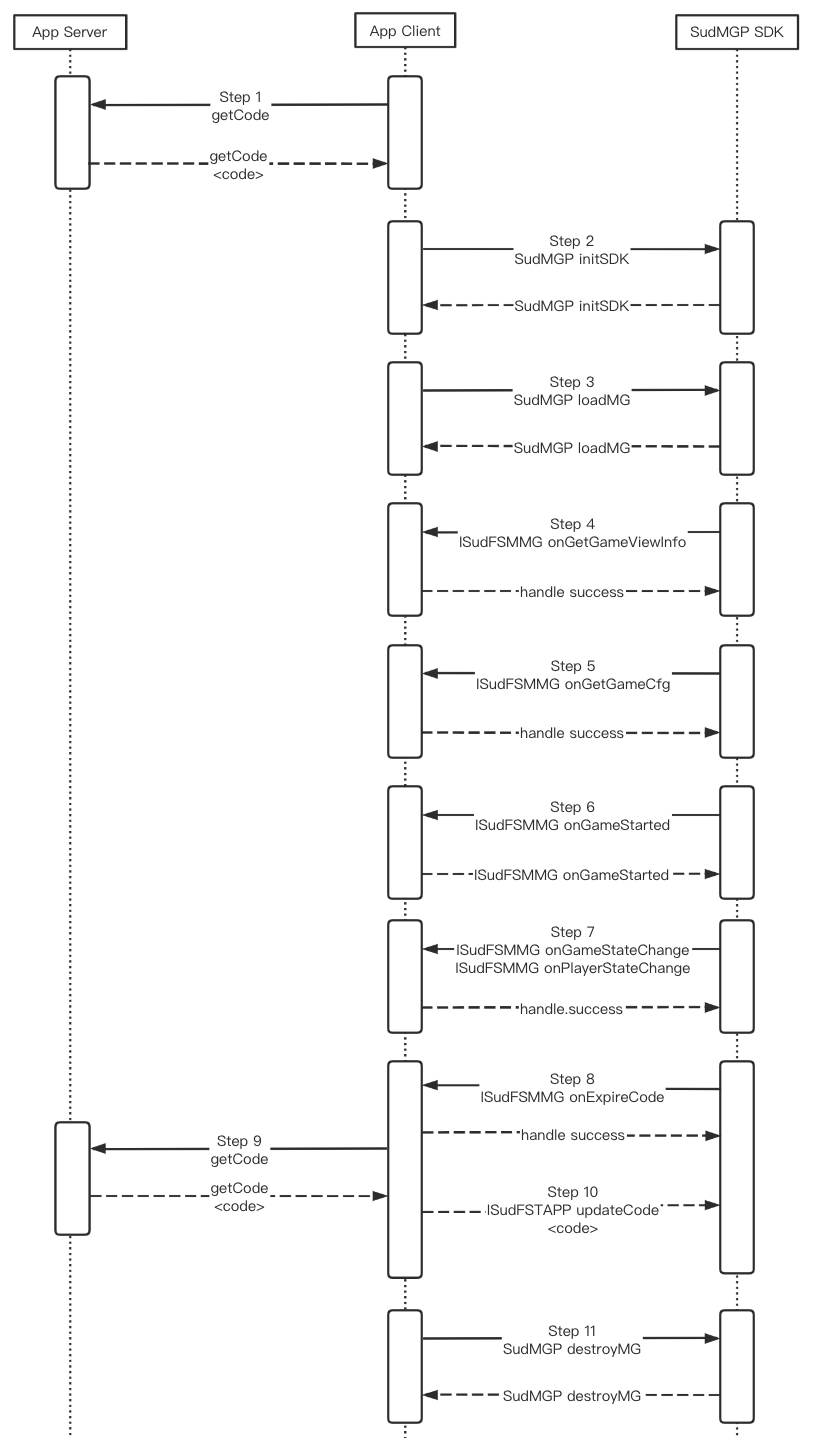
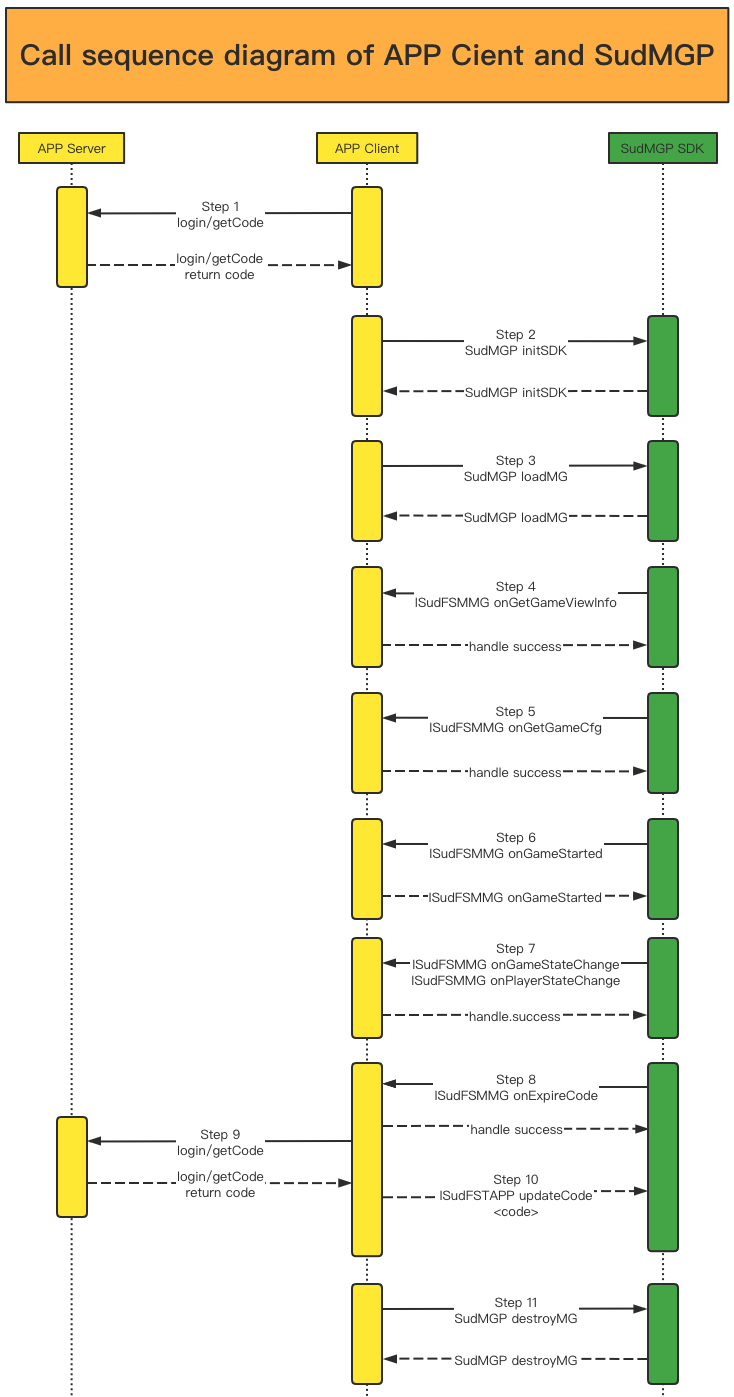
feat (quickstart): 1.QuickStart

diff --git a/en-US/app/Client/StartUp-Android.md b/en-US/app/Client/StartUp-Android.md
@@ -4,11 +4,11 @@
 
 ## Quick start for Android
 
-1. Contact Sud.Tech to obtain `appId`, `appKey`, `appSecret` for your service.
+### 1. Contact Sud.Tech to obtain `appId`, `appKey`, `appSecret` for your service.
 
-2. Download [Android SDK SudMGP.aar](https://github.com/SudTechnology/sud-mgp-android/releases) and the demo project [HelloSud-Android.zip](https://github.com/SudTechnology/hello-sud-android/releases).
+### 2. Download [Android SDK SudMGP.aar](https://github.com/SudTechnology/sud-mgp-android/releases) and the new Demo [QuickStart](https://github.com/SudTechnology/hello-sud-plus-android/tree/master/project/QuickStart), the demo project [HelloSud-Android.zip](https://github.com/SudTechnology/hello-sud-android/releases).
 
-3. Import the SDK into the project.
+### 3. Import the SDK into the project.
 
     In the following example, Android Studio 4.2, Gradle 6.7.1, and the SudMgpExample-Android project are used, and the programming language is Java:
 
@@ -36,20 +36,20 @@
             ......
         }
         ```
-    
-4. Initialize the [SudMGP](./API/SudMGP.md). For details, see "HelloSud-Android".
 
-5. Integrate lifecycle callbacks of the [SudMGP](./API/SudMGP.md) and add the game view to the native layout. For details, see "HelloSud-Android".
+### 4. Initialize the [SudMGP](./API/SudMGP.md). For details, see [QuickStart](https://github.com/SudTechnology/hello-sud-plus-android/tree/master/project/QuickStart).
 
-6. Load the game using the [SudMGP](API/SudMGP.md). For details, see "HelloSud-Android".
+### 5. Integrate lifecycle callbacks of the [SudMGP](./API/SudMGP.md) and add the game view to the native layout. For details, see [QuickStart](https://github.com/SudTechnology/hello-sud-plus-android/tree/master/project/QuickStart).
 
-7. Optional: Implement [`ISudFSMMG`](API/ISudFSMMG.md). For details, see "HelloSud-Android".
+### 6. Load the game using the [SudMGP](API/SudMGP.md). For details, see [QuickStart](https://github.com/SudTechnology/hello-sud-plus-android/tree/master/project/QuickStart).
 
-8. Optional: Implement [`ISudFSTAPP`](API/ISudFSTAPP.md). For details, see "HelloSud-Android".
+### 7. Optional: Implement [`ISudFSMMG`](API/ISudFSMMG.md). For details, see [QuickStart](https://github.com/SudTechnology/hello-sud-plus-android/tree/master/project/QuickStart).
 
-9. Deinitialize the [SudMGP](API/SudMGP.md). For details, see "HelloSud-Android".
+### 8. Optional: Implement [`ISudFSTAPP`](API/ISudFSTAPP.md). For details, see [QuickStart](https://github.com/SudTechnology/hello-sud-plus-android/tree/master/project/QuickStart).
 
-10. API call sequence diagram.
+### 9. Destroy Game with the [SudMGP](API/SudMGP.md). For details, see [QuickStart](https://github.com/SudTechnology/hello-sud-plus-android/tree/master/project/QuickStart).
+
+### 10. Call sequence diagram of APP Cient and SudMGP
 
    ![api](../Resource/Client/sdk_api_sd.png)
 

diff --git a/zh-CN/app/Client/StartUp-Android.md b/zh-CN/app/Client/StartUp-Android.md
@@ -4,13 +4,13 @@
 
 ## Android 快速开始
 
-1. 需要联系Sud.Tech为业务分配 `appId`、 `appKey`、 `appSecret`
+### 1. 需要联系Sud.Tech为业务分配 `appId`、 `appKey`、 `appSecret`
 
-2. 下载 [Android SDK SudMGP.aar](https://github.com/SudTechnology/sud-mgp-android/releases) 和 Demo工程 [HelloSud-Android.zip](https://github.com/SudTechnology/hello-sud-android/releases)
+### 2. 下载 [Android SDK SudMGP.aar](https://github.com/SudTechnology/sud-mgp-android/releases) 和 全新Demo工程 [QuickStart](https://github.com/SudTechnology/hello-sud-plus-android/tree/master/project/QuickStart), 接入Demo [HelloSud-Android.zip](https://github.com/SudTechnology/hello-sud-android/releases)
 
-3. 在工程中引入SDK：
+### 3. 在工程中引入SDK：
 
-    以Android Studio 4.2，Gradle 6.7.1，编程语言Java，工程SudMgpExample-Android为例：
+    以Android Studio 4.2，Gradle 6.7.1，编程语言Java，工程HelloSud-Android为例：
 
     - 将 `SudMGP.aar` 拷贝到SudMgpExample-Android/app/libs目录
 
@@ -36,19 +36,19 @@
             ......
         }
         ```
-    
-4. 初始化 [SudMGP](./API/SudMGP.md) ，具体可参考HelloSud-Android
 
-5. 对接 [SudMGP](./API/SudMGP.md) 相关生命周期回调，讲游戏View加入到原生布局中，具体可参考HelloSud-Android
+### 4. 初始化 [SudMGP](./API/SudMGP.md) ，具体可参考[QuickStart](https://github.com/SudTechnology/hello-sud-plus-android/tree/master/project/QuickStart)
 
-6. 通过 [SudMGP](API/SudMGP.md) 加载小游戏，具体可参考HelloSud-Android
+### 5. 对接 [SudMGP](./API/SudMGP.md) 相关生命周期回调，讲游戏View加入到原生布局中，具体可参考[QuickStart](https://github.com/SudTechnology/hello-sud-plus-android/tree/master/project/QuickStart)
 
-7. 可选：实现 [ISudFSMMG](API/ISudFSMMG.md) ，具体可参考HelloSud-Android
+### 6. 通过 [SudMGP](API/SudMGP.md) 加载小游戏，具体可参考[QuickStart](https://github.com/SudTechnology/hello-sud-plus-android/tree/master/project/QuickStart)
 
-8. 可选：实现 [ISudFSTAPP](API/ISudFSTAPP.md) ，具体可参考HelloSud-Android
+### 7. 可选：实现 [ISudFSMMG](API/ISudFSMMG.md) ，具体可参考[QuickStart](https://github.com/SudTechnology/hello-sud-plus-android/tree/master/project/QuickStart)
 
-9. 反初始化 [SudMGP](API/SudMGP.md) ，具体可参考HelloSud-Android
-   
-10. API调用时序图
+### 8. 可选：实现 [ISudFSTAPP](API/ISudFSTAPP.md) ，具体可参考[QuickStart](https://github.com/SudTechnology/hello-sud-plus-android/tree/master/project/QuickStart)
+
+### 9. 销毁游戏 [SudMGP](API/SudMGP.md) ，具体可参考[QuickStart](https://github.com/SudTechnology/hello-sud-plus-android/tree/master/project/QuickStart)
+
+### 10. API调用时序图
 
 ![api](../Resource/Client/sdk_api_sd.png)

diff --git a/en-US/app/Client/StartUp-iOS.md b/en-US/app/Client/StartUp-iOS.md
@@ -4,11 +4,11 @@
 
 ## Quick start for iOS
 
-1. Contact Sud.Tech to obtain `appId`, `appKey`, `appSecret` for your service.
+### 1. Contact Sud.Tech to obtain `appId`, `appKey`, `appSecret` for your service.
 
-2. Download the iOS SDK [SudMGP.xcframework](https://github.com/SudTechnology/sud-mgp-ios/releases) and the demo project [HelloSud-iOS.zip](https://github.com/SudTechnology/hello-sud-ios/releases).
+### 2. Download the iOS SDK [SudMGP.xcframework](https://github.com/SudTechnology/sud-mgp-ios/releases) and the new Demo [QuickStart-iOS](https://github.com/SudTechnology/hello-sud-plus-ios/tree/master/project/QuickStart), the demo project [HelloSud-iOS.zip](https://github.com/SudTechnology/hello-sud-ios/releases).
 
-3. Import the SDK into the project.
+### 3. Import the SDK into the project.
 
     In the following example, Xcode 13.0 and the HelloSud-iOS project are used, and the programming language is Objective-C.
 
@@ -30,16 +30,16 @@
 
         ![SUD](../Resource/Client/emed.png)
 
-4. Initialize the [SudMGP](./API/SudMGP.md). For details, see "HelloSud-iOS".
+### 4. Initialize the [SudMGP](./API/SudMGP.md). For details, see [QuickStart-iOS](https://github.com/SudTechnology/hello-sud-plus-ios/tree/master/project/QuickStart)
 
-5. Load the game using the [SudMGP](API/SudMGP.md). For details, see "HelloSud-iOS".
+### 5. Load the game using the [SudMGP](API/SudMGP.md). For details, see [QuickStart-iOS](https://github.com/SudTechnology/hello-sud-plus-ios/tree/master/project/QuickStart)
 
-6. Optional: Implement [`ISudFSMMG`](API/ISudFSMMG.md) to respond to the MG finite state machine (FSM). For details, see "HelloSud-iOS".
+### 6. Optional: Implement [`ISudFSMMG`](API/ISudFSMMG.md) to respond to the MG finite state machine (FSM). For details, see [QuickStart-iOS](https://github.com/SudTechnology/hello-sud-plus-ios/tree/master/project/QuickStart)
 
-7. Optional: Implement [`ISudFSTAPP`](API/ISudFSTAPP.md) to send states from the app to the app finite state transducer (FST). For details, see "HelloSud-iOS".
+### 7. Optional: Implement [`ISudFSTAPP`](API/ISudFSTAPP.md) to send states from the app to the app finite state transducer (FST). For details, see [QuickStart-iOS](https://github.com/SudTechnology/hello-sud-plus-ios/tree/master/project/QuickStart)
 
-8. Deinitialize the [SudMGP](API/SudMGP.md). For details, see "HelloSud-iOS".
+### 8. Deinitialize the [SudMGP](API/SudMGP.md). For details, see [QuickStart-iOS](https://github.com/SudTechnology/hello-sud-plus-ios/tree/master/project/QuickStart)
 
-9. API call sequence diagram.
+### 9. Call sequence diagram of APP Cient and SudMGP
    
 ![api](../Resource/Client/sdk_api_sd.png)

diff --git a/zh-CN/app/Client/StartUp-iOS.md b/zh-CN/app/Client/StartUp-iOS.md
@@ -4,11 +4,11 @@
 
 ## iOS快速开始
 
-1. 需要联系Sud.Tech为业务分配 `appId`、 `appKey`、 `appSecret`
+### 1. 需要联系Sud.Tech为业务分配 `appId`、 `appKey`、 `appSecret`
 
-2. 下载 iOS SDK [SudMGP.xcframework](https://github.com/SudTechnology/sud-mgp-ios/releases) 和 Demo工程 [HelloSud-iOS.zip](https://github.com/SudTechnology/hello-sud-ios/releases)
+### 2. 下载 iOS SDK [SudMGP.xcframework](https://github.com/SudTechnology/sud-mgp-ios/releases) 和 Demo工程 [QuickStart-iOS](https://github.com/SudTechnology/hello-sud-plus-ios/tree/master/project/QuickStart) ， 旧接入Demo[HelloSud-iOS.zip](https://github.com/SudTechnology/hello-sud-ios/releases)
 
-3. 在工程中引入SDK：
+### 3. 在工程中引入SDK：
 
     以Xcode 13.0，编程语言Objective-C，目标工程HelloSud-iOS为例：
 
@@ -30,17 +30,17 @@
 
         ![SUD](../Resource/Client/emed.png)
 
-4. 初始化 [SudMGP](./API/SudMGP.md) ，具体可参考HelloSud-iOS
+### 4. 初始化 [SudMGP](./API/SudMGP.md) ，具体可参考[QuickStart-iOS](https://github.com/SudTechnology/hello-sud-plus-ios/tree/master/project/QuickStart)
 
-5. 通过 [SudMGP](API/SudMGP.md) 加载小游戏，具体可参考HelloSud-iOS
+### 5. 通过 [SudMGP](API/SudMGP.md) 加载小游戏，具体可参考[QuickStart-iOS](https://github.com/SudTechnology/hello-sud-plus-ios/tree/master/project/QuickStart)
 
-6. 可选：实现 [ISudFSMMG](API/ISudFSMMG.md) 响应MG状态机，具体可参考HelloSud-iOS
+### 6. 可选：实现 [ISudFSMMG](API/ISudFSMMG.md) 响应MG状态机，具体可参考[QuickStart-iOS](https://github.com/SudTechnology/hello-sud-plus-ios/tree/master/project/QuickStart)
 
-7. 可选：实现 [ISudFSTAPP](API/ISudFSTAPP.md) 将App状态发送到App状态控制器，具体可参考HelloSud-iOS
+### 7. 可选：实现 [ISudFSTAPP](API/ISudFSTAPP.md) 将App状态发送到App状态控制器，具体可参考[QuickStart-iOS](https://github.com/SudTechnology/hello-sud-plus-ios/tree/master/project/QuickStart)
 
-8.  反初始化 [SudMGP](API/SudMGP.md) ，具体可参考HelloSud-iOS
+### 8. 销毁游戏 [SudMGP](API/SudMGP.md) ，具体可参考[QuickStart-iOS](https://github.com/SudTechnology/hello-sud-plus-ios/tree/master/project/QuickStart)
 
-9. API调用时序图
+### 9. API调用时序图
 
 ![api](../Resource/Client/sdk_api_sd.png)
    

diff --git a/en-US/README.md b/en-US/README.md
@@ -30,13 +30,17 @@
   
 
 ## Download the client demo
+- [QuickStart-Android New Demo](https://github.com/SudTechnology/hello-sud-plus-android/tree/master/project/QuickStart)
+
+- [QuickStart-iOS New Demo](https://github.com/SudTechnology/hello-sud-plus-ios/tree/master/project/QuickStart)
+
 - [HelloSud-Android](https://github.com/SudTechnology/hello-sud-android/releases)
 
 - [HelloSud-iOS](https://github.com/SudTechnology/hello-sud-ios/releases)
 
-- [HelloSudPlus-Android](https://github.com/SudTechnology/hello-sud-plus-android/tree/develop)
+- [HelloSudPlus-Android Business Scene](https://github.com/SudTechnology/hello-sud-plus-android/tree/master)
 
-- [HelloSudPlus-iOS](https://github.com/SudTechnology/hello-sud-plus-ios/tree/develop)
+- [HelloSudPlus-iOS Business Scene](https://github.com/SudTechnology/hello-sud-plus-ios/tree/master)
 
 ## Multiple languages for game
 - [Multiple Languages for Game](app/Client/Languages/README.md) loadMG language parameters

diff --git a/zh-CN/README.md b/zh-CN/README.md
@@ -30,13 +30,18 @@
   
 
 ## 客户端Demo下载
+
+- [QuickStart-Android 全新接入Demo](https://github.com/SudTechnology/hello-sud-plus-android/tree/master/project/QuickStart)
+
+- [QuickStart-iOS 全新接入Demo](https://github.com/SudTechnology/hello-sud-plus-ios/tree/master/project/QuickStart)
+
 - [HelloSud-Android](https://github.com/SudTechnology/hello-sud-android/releases)
   
 - [HelloSud-iOS](https://github.com/SudTechnology/hello-sud-ios/releases)
 
-- [HelloSudPlus-Android](https://github.com/SudTechnology/hello-sud-plus-android/tree/develop)
+- [HelloSudPlus-Android 展示多业务场景](https://github.com/SudTechnology/hello-sud-plus-android/tree/master)
 
-- [HelloSudPlus-iOS](https://github.com/SudTechnology/hello-sud-plus-ios/tree/develop)
+- [HelloSudPlus-iOS 展示多业务场景](https://github.com/SudTechnology/hello-sud-plus-ios/tree/master)
 
 ## 游戏多语言
 - [游戏多语言](Client/Languages/README.md) loadMG language参数

diff --git a/en-US/app/Client/Demo/README.md b/en-US/app/Client/Demo/README.md
@@ -3,7 +3,6 @@
 ![SUD](../../Resource/logo.png)
 
 ## Download the client demo
-- [HelloSud-Android-v1.1.46.449](https://github.com/SudTechnology/hello-sud-android/releases/tag/v1.1.46.449)
 
-- [HelloSud-iOS-v1.1.46.432](https://github.com/SudTechnology/hello-sud-ios/releases/tag/v1.1.46.432)
-
+- [QuickStart-Android](https://github.com/SudTechnology/hello-sud-plus-android/tree/master/project/QuickStart)
+- [QuickStart-iOS](https://github.com/SudTechnology/hello-sud-plus-ios/tree/master/project/QuickStart)

diff --git a/zh-CN/app/Client/Demo/README.md b/zh-CN/app/Client/Demo/README.md
@@ -3,6 +3,6 @@
 ![SUD](../../Resource/logo.png)
 
 ## 客户端Demo下载
-- [HelloSud-Android-v1.1.46.449](https://github.com/SudTechnology/hello-sud-android/releases/tag/v1.1.46.449)
 
-- [HelloSud-iOS-v1.1.46.432](https://github.com/SudTechnology/hello-sud-ios/releases/tag/v1.1.46.432)
+- [QuickStart-Android](https://github.com/SudTechnology/hello-sud-plus-android/tree/master/project/QuickStart)
+- [QuickStart-iOS](https://github.com/SudTechnology/hello-sud-plus-ios/tree/master/project/QuickStart)

diff --git a/en-US/app/Client/SDK/README.md b/en-US/app/Client/SDK/README.md
@@ -3,7 +3,7 @@
 ![SUD](../../Resource/logo.png)
 
 ## Download the client SDK
-- [SudMGP-Android-v1.1.46.449](https://github.com/SudTechnology/sud-mgp-android/releases/tag/v1.1.46.449)
+- [SudMGP-Android](https://github.com/SudTechnology/sud-mgp-android/releases)
 
-- [SudMGP-iOS-v1.1.46.432](https://github.com/SudTechnology/sud-mgp-ios/releases/tag/v1.1.46.432)
+- [SudMGP-iOS](https://github.com/SudTechnology/sud-mgp-ios/releases)
 

diff --git a/zh-CN/app/Client/SDK/README.md b/zh-CN/app/Client/SDK/README.md
@@ -3,6 +3,6 @@
 ![SUD](../../Resource/logo.png)
 
 ## 客户端SDK下载
-- [SudMGP-Android-v1.1.46.449](https://github.com/SudTechnology/sud-mgp-android/releases/tag/v1.1.46.449)
+- [SudMGP-Android](https://github.com/SudTechnology/sud-mgp-android/releases)
 
-- [SudMGP-iOS-v1.1.46.432](https://github.com/SudTechnology/sud-mgp-ios/releases/tag/v1.1.46.432)
+- [SudMGP-iOS](https://github.com/SudTechnology/sud-mgp-ios/releases)

diff --git a/zh-CN/app/Client/FAQ/README.md b/zh-CN/app/Client/FAQ/README.md
@@ -1,0 +1,6 @@
+#
+
+![SUD](../../Resource/logo.png)
+
+## 1.接入问题
+- 准备中，敬请期待

diff --git a/en-US/app/Client/FAQ/README.md b/en-US/app/Client/FAQ/README.md
@@ -1,0 +1,3 @@
+#
+
+![SUD](../../Resource/logo.png)
